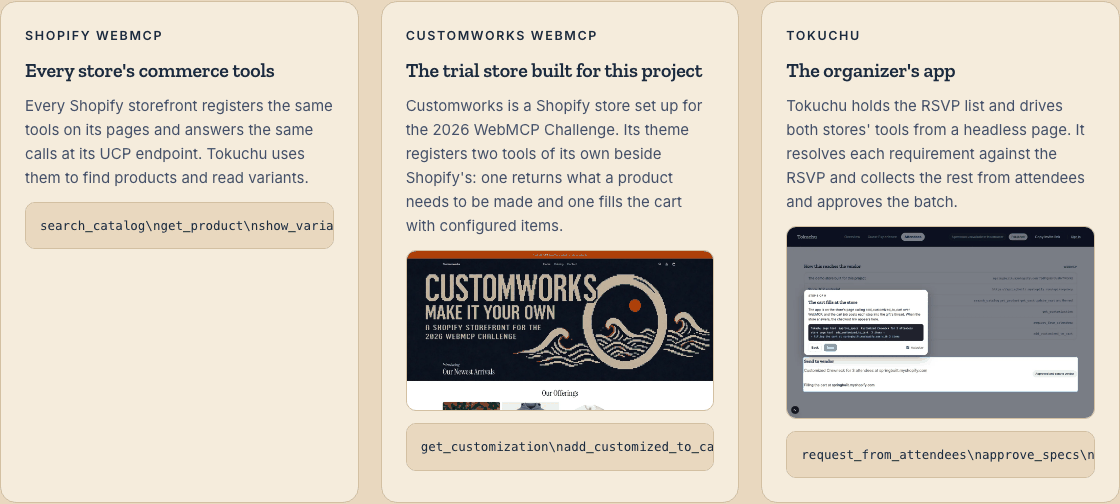
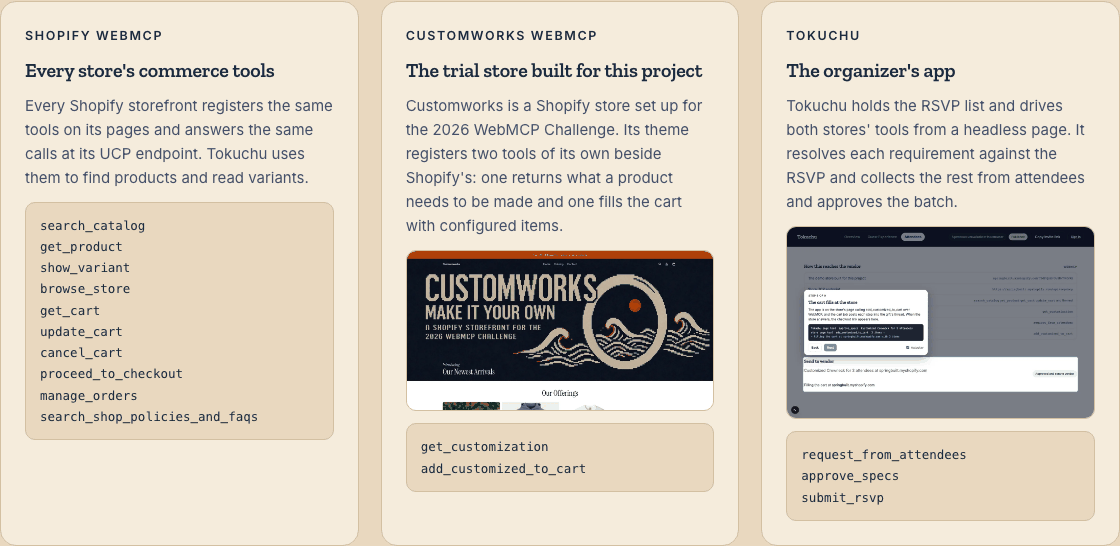
fix(home): break the tool lists onto one line per tool

diff --git a/src/app/page.tsx b/src/app/page.tsx
@@ -147,21 +147,21 @@ export default async function Page() {
                 <span className="eyebrow">Shopify WebMCP</span>
                 <h3>Every store's commerce tools</h3>
                 <p>Every Shopify storefront registers the same tools on its pages and answers the same calls at its UCP endpoint. Tokuchu uses them to find products and read variants.</p>
-                <pre className="toolist" aria-label="Shopify's storefront WebMCP tools">{["search_catalog", "get_product", "show_variant", "browse_store", "get_cart", "update_cart", "cancel_cart", "proceed_to_checkout", "manage_orders", "search_shop_policies_and_faqs"].join("\\n")}</pre>
+                <pre className="toolist" aria-label="Shopify's storefront WebMCP tools">{["search_catalog", "get_product", "show_variant", "browse_store", "get_cart", "update_cart", "cancel_cart", "proceed_to_checkout", "manage_orders", "search_shop_policies_and_faqs"].join("\n")}</pre>
               </div>
               <div className="card">
                 <span className="eyebrow">Customworks WebMCP</span>
                 <h3>The trial store built for this project</h3>
                 <p>Customworks is a Shopify store set up for the 2026 WebMCP Challenge. Its theme registers two tools of its own beside Shopify's: one returns what a product needs to be made and one fills the cart with configured items.</p>
                 <a className="shot" href="https://springbuilt.myshopify.com" target="_blank" rel="noreferrer"><img src="/media/customworks-store.webp" alt="The Customworks storefront with its banner and product offerings" loading="lazy" /></a>
-                <pre className="toolist" aria-label="Customworks' merchant WebMCP tools">{["get_customization", "add_customized_to_cart"].join("\\n")}</pre>
+                <pre className="toolist" aria-label="Customworks' merchant WebMCP tools">{["get_customization", "add_customized_to_cart"].join("\n")}</pre>
               </div>
               <div className="card">
                 <span className="eyebrow">Tokuchu</span>
                 <h3>The organizer's app</h3>
                 <p>Tokuchu holds the RSVP list and drives both stores' tools from a headless page. It resolves each requirement against the RSVP and collects the rest from attendees and approves the batch.</p>
                 <span className="shot"><img src="/media/tokuchu-attendees.webp" alt="Tokuchu's Attendees tab during the cart fill with the tour callout naming the calls" loading="lazy" /></span>
-                <pre className="toolist" aria-label="Tokuchu's page tools">{["request_from_attendees", "approve_specs", "submit_rsvp"].join("\\n")}</pre>
+                <pre className="toolist" aria-label="Tokuchu's page tools">{["request_from_attendees", "approve_specs", "submit_rsvp"].join("\n")}</pre>
               </div>
             </div>
           </div>
